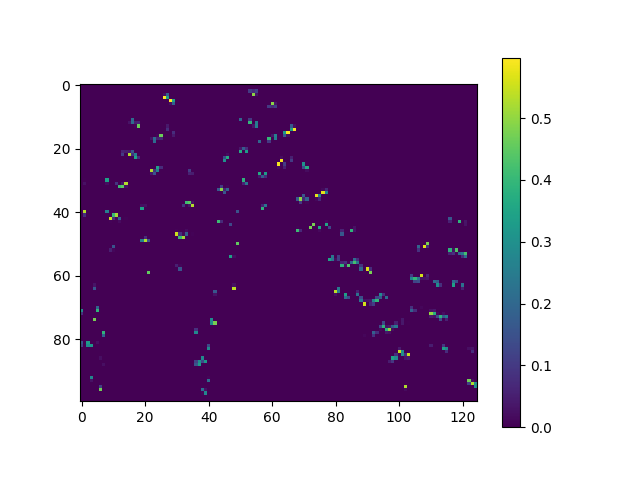
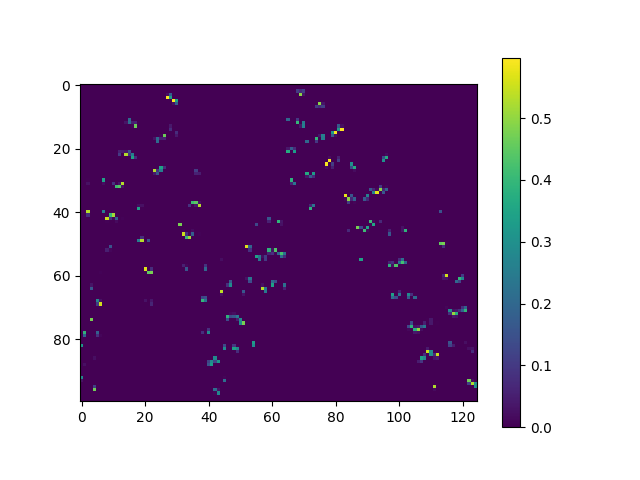
deploy: ea5e95e3e996b7af426904b41d4ed07ebbda2b2d

diff --git a/searchindex.js b/searchindex.js
@@ -1,1 +1,1 @@
-Search.setIndex({"docnames": ["api", "examples/index", "examples/sg_execution_times", "examples/spatial_indexing", "index"], "filenames": ["api.rst", "examples/index.rst", "examples/sg_execution_times.rst", "examples/spatial_indexing.rst", "index.rst"], "titles": ["CellTree2d", "Examples", "Computation times", "Spatial indexing", "Numba Celltree"], "terms": {"class": 0, "numba_celltre": [0, 1, 3, 4], "vertic": [0, 3, 4], "ndarrai": 0, "face": [0, 3, 4], "fill_valu": 0, "int": 0, "n_bucket": 0, "4": [0, 3, 4], "cells_per_leaf": 0, "2": [0, 3, 4], "sourc": [0, 1, 3], "base": 0, "object": [0, 3], "construct": [0, 3], "cell": [0, 4], "tree": [0, 3, 4], "from": [0, 3, 4], "2d": 0, "index": [0, 1, 2], "arrai": [0, 3, 4], "paramet": 0, "float": 0, "shape": [0, 3], "n_point": 0, "corner": 0, "coordin": [0, 3], "x": [0, 3], "y": [0, 3], "integ": 0, "n_face": 0, "n_max_vert": 0, "identifi": 0, "everi": [0, 1, 3], "indic": 0, "its": 0, "node": [0, 3], "If": [0, 3], "ha": 0, "less": 0, "than": 0, "last": 0, "should": [0, 3], "equal": [0, 3], "option": 0, "default": 0, "The": [0, 1, 3], "number": [0, 3], "bucket": 0, "us": [0, 3], "must": 0, "higher": 0, "valu": [0, 3], "over": 0, "8": [0, 3], "provid": [0, 3, 4], "diminish": 0, "return": [0, 3], "leaf": 0, "can": [0, 1, 3], "set": 0, "onli": [0, 3], "1": [0, 3, 4], "thi": [0, 1, 3], "doubl": 0, "memori": 0, "footprint": 0, "slightli": 0, "faster": 0, "lookup": 0, "increas": 0, "reduc": 0, "usag": 0, "cost": 0, "perform": 0, "fill": 0, "mark": 0, "empti": 0, "compute_barycentric_weight": 0, "point": [0, 4], "tupl": 0, "comput": [0, 3], "barycentr": 0, "weight": [0, 3], "locat": 0, "insid": [0, 3], "grid": 0, "tree_face_indic": 0, "For": 0, "fall": [0, 3], "ani": [0, 3], "ar": [0, 3], "barycentric_weight": 0, "which": [0, 3], "i": [0, 3, 4], "all": [0, 1, 3], "0": [0, 2, 3, 4], "intersect_box": [0, 3], "bbox_coord": 0, "find": [0, 3, 4], "box": [0, 4], "intersect": [0, 3, 4], "area": [0, 3, 4], "n_box": 0, "row": [0, 3], "contain": [0, 3], "xmin": [0, 3], "xmax": [0, 3], "ymin": [0, 3], "ymax": [0, 3], "bbox_indic": 0, "n_found": 0, "bound": 0, "between": [0, 3], "two": [0, 3, 4], "intersect_edg": [0, 3, 4], "edge_coord": [0, 3, 4], "an": [0, 3, 4], "edg": [0, 3], "n_edg": 0, "x0": 0, "y0": 0, "x1": 0, "y1": 0, "edge_indic": 0, "length": [0, 3], "intersect_fac": [0, 3, 4], "anoth": [0, 3], "frace_indic": 0, "locate_box": [0, 3], "locate_point": [0, 3], "type": 0, "galleri": [1, 3], "demonstr": 1, "function": 1, "packag": [1, 3], "download": [1, 3], "either": 1, "python": [1, 3], "script": [1, 3], "jupyt": [1, 3], "notebook": [1, 3], "interact": 1, "explor": 1, "spatial": [1, 2], "code": [1, 3], "examples_python": 1, "zip": 1, "examples_jupyt": 1, "gener": [1, 3], "sphinx": [1, 3], "00": 2, "01": 2, "098": [2, 3], "total": [2, 3], "execut": 2, "exampl": [2, 3], "file": 2, "spatial_index": [2, 3], "py": [2, 3], "mb": 2, "click": 3, "here": 3, "full": 3, "goal": 3, "quickli": 3, "unstructur": [3, 4], "mesh": [3, 4], "challeng": 3, "regard": 3, "given": 3, "we": 3, "cannot": 3, "simpli": 3, "column": 3, "would": 3, "structur": 3, "data": 3, "raster": 3, "most": 3, "straightforward": 3, "procedur": 3, "check": 3, "singl": 3, "until": 3, "re": 3, "look": 3, "clearli": 3, "effici": 3, "A": 3, "volum": 3, "hierarchi": 3, "bvh": 3, "mai": 3, "search": [3, 4], "without": 3, "exhaust": 3, "implement": 3, "four": 3, "wai": [3, 4], "convex": [3, 4], "polygon": [3, 4], "e": 3, "g": 3, "segment": 3, "introduct": 3, "each": 3, "ll": 3, "start": 3, "import": [3, 4], "requir": 3, "matplotlib": 3, "plot": 3, "o": 3, "environ": 3, "numba_disable_jit": 3, "small": 3, "avoid": 3, "jit": 3, "overhead": 3, "pyplot": 3, "plt": 3, "numpi": [3, 4], "np": [3, 4], "collect": 3, "linecollect": 3, "celltree2d": [3, 4], "demo": [3, 4], "let": 3, "": 3, "rectangular": 3, "nx": 3, "ny": 3, "10": [3, 4], "linspac": 3, "meshgrid": 3, "ij": 3, "reshap": 3, "t": 3, "add": 3, "outer": 3, "arang": 3, "determin": 3, "them": 3, "node_x": 3, "node_i": 3, "transpos": 3, "fig": 3, "ax": 3, "subplot": 3, "plot_edg": 3, "color": 3, "black": 3, "build": 3, "first": 3, "some": 3, "5": [3, 4], "6": [3, 4], "24": 3, "46": 3, "These": 3, "mean": 3, "get": 3, "rid": 3, "take": 3, "have": 3, "been": 3, "found": 3, "blue": 3, "draw": 3, "compar": 3, "scatter": 3, "linewidth": 3, "3": [3, 4], "now": 3, "try": 3, "more": 3, "exot": 3, "generate_disk": [3, 4], "There": 3, "certainli": 3, "speak": 3, "new": 3, "same": 3, "befor": 3, "It": 3, "clear": 3, "also": 3, "out": 3, "exactli": 3, "one": 3, "neighbor": 3, "chosen": 3, "arbitrarili": 3, "At": 3, "rate": 3, "alwai": 3, "expect": 3, "answer": 3, "per": 3, "case": 3, "multipl": 3, "n": 3, "yield": 3, "m": 3, "To": 3, "illustr": 3, "box_coord": 3, "box_i": 3, "cell_i": [3, 4], "plot_box": 3, "red": 3, "13": 3, "34": 3, "35": 3, "31": 3, "32": 3, "33": 3, "69": 3, "30": 3, "68": 3, "72": 3, "75": 3, "88": 3, "90": 3, "82": 3, "84": 3, "83": 3, "86": 3, "85": 3, "78": 3, "80": 3, "87": 3, "73": 3, "77": 3, "43": 3, "79": 3, "47": 3, "48": 3, "81": 3, "121": 3, "119": 3, "120": 3, "59": 3, "22": 3, "23": 3, "61": 3, "60": 3, "25": 3, "28": 3, "29": 3, "64": 3, "65": 3, "26": 3, "27": 3, "66": 3, "67": 3, "55": 3, "54": 3, "17": 3, "18": 3, "53": 3, "15": 3, "16": 3, "50": 3, "note": 3, "method": [3, 4], "second": 3, "usual": 3, "respect": 3, "third": 3, "confirm": 3, "visual": 3, "cells_0": 3, "cells_1": 3, "green": 3, "similarli": 3, "other": 3, "overlap": 3, "three": 3, "celtre": 3, "triangle_vertic": [3, 4], "7": [3, 4], "triangl": [3, 4], "tri_x": 3, "tri_i": [3, 4], "ratio": 3, "becaus": 3, "our": 3, "triangular": 3, "repres": 3, "vector": 3, "v": 3, "u": 3, "Then": 3, "half": 3, "absolut": 3, "cross": 3, "product": 3, "intersection_fac": 3, "intersection_vertic": 3, "full_area": 3, "ab": 3, "tripcolor": 3, "colorbar": 3, "come": 3, "handi": 3, "dx": 3, "dy": 3, "coord": 3, "column_stack": 3, "ravel": 3, "raster_i": 3, "raster_overlap": 3, "matrix": 3, "store": 3, "weight_matrix": 3, "zero": 3, "len": 3, "imshow": 3, "_": 3, "translat": 3, "mock": 3, "elev": 3, "vallei": 3, "def": 3, "saddle_elev": 3, "sin": 3, "centroid_x": 3, "centroid_i": 3, "axi": 3, "face_z": 3, "weighted_elev": 3, "dot": 3, "area_sum": 3, "ones": 3, "mean_elev": 3, "nan": 3, "figur": 3, "figsiz": 3, "ax0": 3, "add_subplot": 3, "project": 3, "3d": 3, "plot_trisurf": 3, "cmap": 3, "viridi": 3, "ax1": 3, "extent": 3, "white": 3, "Such": 3, "doesn": 3, "appli": 3, "just": 3, "map": 3, "howev": 3, "aggreg": 3, "abov": 3, "veri": 3, "entri": 3, "much": 3, "process": 3, "spars": 3, "see": 3, "scipi": 3, "intersect_": 3, "form": 3, "list": 3, "coo": 3, "easili": 3, "panda": 3, "groupbi": 3, "oper": 3, "As": 3, "final": 3, "onc": 3, "again": 3, "edge_i": [3, 4], "56": 3, "71": 3, "112": 3, "117": 3, "111": 3, "110": 3, "96": 3, "37": 3, "36": 3, "97": 3, "94": 3, "44": 3, "wrap": 3, "up": 3, "euclidian": 3, "norm": 3, "pythagorean": 3, "distanc": 3, "linalg": 3, "add_collect": 3, "run": 3, "time": 3, "minut": 3, "ipynb": 3, "your": 4, "around": 4, "difficult": 4, "line": 4, "dimension": 4, "pip": 4}, "objects": {"": [[0, 0, 0, "-", "numba_celltree"]], "numba_celltree": [[0, 1, 1, "", "CellTree2d"]], "numba_celltree.CellTree2d": [[0, 2, 1, "", "compute_barycentric_weights"], [0, 2, 1, "", "intersect_boxes"], [0, 2, 1, "", "intersect_edges"], [0, 2, 1, "", "intersect_faces"], [0, 2, 1, "", "locate_boxes"], [0, 2, 1, "", "locate_points"]]}, "objtypes": {"0": "py:module", "1": "py:class", "2": "py:method"}, "objnames": {"0": ["py", "module", "Python module"], "1": ["py", "class", "Python class"], "2": ["py", "method", "Python method"]}, "titleterms": {"celltree2d": 0, "exampl": 1, "comput": 2, "time": 2, "spatial": 3, "index": 3, "locat": 3, "point": 3, "bound": 3, "box": 3, "cell": 3, "line": 3, "numba": 4, "celltre": 4, "instal": 4}, "envversion": {"sphinx.domains.c": 2, "sphinx.domains.changeset": 1, "sphinx.domains.citation": 1, "sphinx.domains.cpp": 8, "sphinx.domains.index": 1, "sphinx.domains.javascript": 2, "sphinx.domains.math": 2, "sphinx.domains.python": 3, "sphinx.domains.rst": 2, "sphinx.domains.std": 2, "sphinx.ext.viewcode": 1, "sphinx.ext.todo": 2, "sphinx": 57}, "alltitles": {"CellTree2d": [[0, "module-numba_celltree"]], "Examples": [[1, "examples"]], "Computation times": [[2, "computation-times"]], "Spatial indexing": [[3, "spatial-indexing"]], "Locating points": [[3, "locating-points"]], "Locating bounding boxes": [[3, "locating-bounding-boxes"]], "Locating cells": [[3, "locating-cells"]], "Locating lines": [[3, "locating-lines"]], "Numba Celltree": [[4, "numba-celltree"]], "Installation": [[4, "installation"]]}, "indexentries": {"celltree2d (class in numba_celltree)": [[0, "numba_celltree.CellTree2d"]], "compute_barycentric_weights() (numba_celltree.celltree2d method)": [[0, "numba_celltree.CellTree2d.compute_barycentric_weights"]], "intersect_boxes() (numba_celltree.celltree2d method)": [[0, "numba_celltree.CellTree2d.intersect_boxes"]], "intersect_edges() (numba_celltree.celltree2d method)": [[0, "numba_celltree.CellTree2d.intersect_edges"]], "intersect_faces() (numba_celltree.celltree2d method)": [[0, "numba_celltree.CellTree2d.intersect_faces"]], "locate_boxes() (numba_celltree.celltree2d method)": [[0, "numba_celltree.CellTree2d.locate_boxes"]], "locate_points() (numba_celltree.celltree2d method)": [[0, "numba_celltree.CellTree2d.locate_points"]], "module": [[0, "module-numba_celltree"]], "numba_celltree": [[0, "module-numba_celltree"]]}})
+Search.setIndex({"docnames": ["api", "examples/index", "examples/sg_execution_times", "examples/spatial_indexing", "index"], "filenames": ["api.rst", "examples/index.rst", "examples/sg_execution_times.rst", "examples/spatial_indexing.rst", "index.rst"], "titles": ["CellTree2d", "Examples", "Computation times", "Spatial indexing", "Numba Celltree"], "terms": {"class": 0, "numba_celltre": [0, 1, 3, 4], "vertic": [0, 3, 4], "ndarrai": 0, "face": [0, 3, 4], "fill_valu": 0, "int": 0, "n_bucket": 0, "4": [0, 3, 4], "cells_per_leaf": 0, "2": [0, 3, 4], "sourc": [0, 1, 3], "base": 0, "object": [0, 3], "construct": [0, 3], "cell": [0, 4], "tree": [0, 3, 4], "from": [0, 3, 4], "2d": 0, "index": [0, 1, 2], "arrai": [0, 3, 4], "paramet": 0, "float": 0, "shape": [0, 3], "n_point": 0, "corner": 0, "coordin": [0, 3], "x": [0, 3], "y": [0, 3], "integ": 0, "n_face": 0, "n_max_vert": 0, "identifi": 0, "everi": [0, 1, 3], "indic": 0, "its": 0, "node": [0, 3], "If": [0, 3], "ha": 0, "less": 0, "than": 0, "last": 0, "should": [0, 3], "equal": [0, 3], "option": 0, "default": 0, "The": [0, 1, 3], "number": [0, 3], "bucket": 0, "us": [0, 3], "must": 0, "higher": 0, "valu": [0, 3], "over": 0, "8": [0, 3], "provid": [0, 3, 4], "diminish": 0, "return": [0, 3], "leaf": 0, "can": [0, 1, 3], "set": 0, "onli": [0, 3], "1": [0, 3, 4], "thi": [0, 1, 3], "doubl": 0, "memori": 0, "footprint": 0, "slightli": 0, "faster": 0, "lookup": 0, "increas": 0, "reduc": 0, "usag": 0, "cost": 0, "perform": 0, "fill": 0, "mark": 0, "empti": 0, "compute_barycentric_weight": 0, "point": [0, 4], "tupl": 0, "comput": [0, 3], "barycentr": 0, "weight": [0, 3], "locat": 0, "insid": [0, 3], "grid": 0, "tree_face_indic": 0, "For": 0, "fall": [0, 3], "ani": [0, 3], "ar": [0, 3], "barycentric_weight": 0, "which": [0, 3], "i": [0, 3, 4], "all": [0, 1, 3], "0": [0, 2, 3, 4], "intersect_box": [0, 3], "bbox_coord": 0, "find": [0, 3, 4], "box": [0, 4], "intersect": [0, 3, 4], "area": [0, 3, 4], "n_box": 0, "row": [0, 3], "contain": [0, 3], "xmin": [0, 3], "xmax": [0, 3], "ymin": [0, 3], "ymax": [0, 3], "bbox_indic": 0, "n_found": 0, "bound": 0, "between": [0, 3], "two": [0, 3, 4], "intersect_edg": [0, 3, 4], "edge_coord": [0, 3, 4], "an": [0, 3, 4], "edg": [0, 3], "n_edg": 0, "x0": 0, "y0": 0, "x1": 0, "y1": 0, "edge_indic": 0, "length": [0, 3], "intersect_fac": [0, 3, 4], "anoth": [0, 3], "frace_indic": 0, "locate_box": [0, 3], "locate_point": [0, 3], "type": 0, "galleri": [1, 3], "demonstr": 1, "function": 1, "packag": [1, 3], "download": [1, 3], "either": 1, "python": [1, 3], "script": [1, 3], "jupyt": [1, 3], "notebook": [1, 3], "interact": 1, "explor": 1, "spatial": [1, 2], "code": [1, 3], "examples_python": 1, "zip": 1, "examples_jupyt": 1, "gener": [1, 3], "sphinx": [1, 3], "00": 2, "01": 2, "578": [2, 3], "total": [2, 3], "execut": 2, "exampl": [2, 3], "file": 2, "spatial_index": [2, 3], "py": [2, 3], "mb": 2, "click": 3, "here": 3, "full": 3, "goal": 3, "quickli": 3, "unstructur": [3, 4], "mesh": [3, 4], "challeng": 3, "regard": 3, "given": 3, "we": 3, "cannot": 3, "simpli": 3, "column": 3, "would": 3, "structur": 3, "data": 3, "raster": 3, "most": 3, "straightforward": 3, "procedur": 3, "check": 3, "singl": 3, "until": 3, "re": 3, "look": 3, "clearli": 3, "effici": 3, "A": 3, "volum": 3, "hierarchi": 3, "bvh": 3, "mai": 3, "search": [3, 4], "without": 3, "exhaust": 3, "implement": 3, "four": 3, "wai": [3, 4], "convex": [3, 4], "polygon": [3, 4], "e": 3, "g": 3, "segment": 3, "introduct": 3, "each": 3, "ll": 3, "start": 3, "import": [3, 4], "requir": 3, "matplotlib": 3, "plot": 3, "o": 3, "environ": 3, "numba_disable_jit": 3, "small": 3, "avoid": 3, "jit": 3, "overhead": 3, "pyplot": 3, "plt": 3, "numpi": [3, 4], "np": [3, 4], "collect": 3, "linecollect": 3, "celltree2d": [3, 4], "demo": [3, 4], "let": 3, "": 3, "rectangular": 3, "nx": 3, "ny": 3, "10": [3, 4], "linspac": 3, "meshgrid": 3, "ij": 3, "reshap": 3, "t": 3, "add": 3, "outer": 3, "arang": 3, "determin": 3, "them": 3, "node_x": 3, "node_i": 3, "transpos": 3, "fig": 3, "ax": 3, "subplot": 3, "plot_edg": 3, "color": 3, "black": 3, "build": 3, "first": 3, "some": 3, "5": [3, 4], "6": [3, 4], "24": 3, "46": 3, "These": 3, "mean": 3, "get": 3, "rid": 3, "take": 3, "have": 3, "been": 3, "found": 3, "blue": 3, "draw": 3, "compar": 3, "scatter": 3, "linewidth": 3, "3": [3, 4], "now": 3, "try": 3, "more": 3, "exot": 3, "generate_disk": [3, 4], "There": 3, "certainli": 3, "speak": 3, "new": 3, "same": 3, "befor": 3, "It": 3, "clear": 3, "also": 3, "out": 3, "exactli": 3, "one": 3, "neighbor": 3, "chosen": 3, "arbitrarili": 3, "At": 3, "rate": 3, "alwai": 3, "expect": 3, "answer": 3, "per": 3, "case": 3, "multipl": 3, "n": 3, "yield": 3, "m": 3, "To": 3, "illustr": 3, "box_coord": 3, "box_i": 3, "cell_i": [3, 4], "plot_box": 3, "red": 3, "13": 3, "36": 3, "37": 3, "33": 3, "34": 3, "35": 3, "84": 3, "32": 3, "89": 3, "87": 3, "90": 3, "39": 3, "20": 3, "97": 3, "99": 3, "98": 3, "101": 3, "102": 3, "88": 3, "44": 3, "100": 3, "31": 3, "92": 3, "91": 3, "56": 3, "55": 3, "57": 3, "58": 3, "63": 3, "62": 3, "64": 3, "74": 3, "23": 3, "76": 3, "75": 3, "25": 3, "26": 3, "29": 3, "30": 3, "79": 3, "80": 3, "27": 3, "28": 3, "81": 3, "82": 3, "70": 3, "69": 3, "16": 3, "17": 3, "68": 3, "14": 3, "15": 3, "65": 3, "note": 3, "method": [3, 4], "second": 3, "usual": 3, "respect": 3, "third": 3, "confirm": 3, "visual": 3, "cells_0": 3, "cells_1": 3, "green": 3, "similarli": 3, "other": 3, "overlap": 3, "three": 3, "celtre": 3, "triangle_vertic": [3, 4], "7": [3, 4], "triangl": [3, 4], "tri_x": 3, "tri_i": [3, 4], "ratio": 3, "becaus": 3, "our": 3, "triangular": 3, "repres": 3, "vector": 3, "v": 3, "u": 3, "Then": 3, "half": 3, "absolut": 3, "cross": 3, "product": 3, "intersection_fac": 3, "intersection_vertic": 3, "full_area": 3, "ab": 3, "tripcolor": 3, "colorbar": 3, "come": 3, "handi": 3, "dx": 3, "dy": 3, "coord": 3, "column_stack": 3, "ravel": 3, "raster_i": 3, "raster_overlap": 3, "matrix": 3, "store": 3, "weight_matrix": 3, "zero": 3, "len": 3, "imshow": 3, "_": 3, "translat": 3, "mock": 3, "elev": 3, "vallei": 3, "def": 3, "saddle_elev": 3, "sin": 3, "centroid_x": 3, "centroid_i": 3, "axi": 3, "face_z": 3, "weighted_elev": 3, "dot": 3, "area_sum": 3, "ones": 3, "mean_elev": 3, "nan": 3, "figur": 3, "figsiz": 3, "ax0": 3, "add_subplot": 3, "project": 3, "3d": 3, "plot_trisurf": 3, "cmap": 3, "viridi": 3, "ax1": 3, "extent": 3, "white": 3, "Such": 3, "doesn": 3, "appli": 3, "just": 3, "map": 3, "howev": 3, "aggreg": 3, "abov": 3, "veri": 3, "entri": 3, "much": 3, "process": 3, "spars": 3, "see": 3, "scipi": 3, "intersect_": 3, "form": 3, "list": 3, "coo": 3, "easili": 3, "panda": 3, "groupbi": 3, "oper": 3, "As": 3, "final": 3, "onc": 3, "again": 3, "edge_i": [3, 4], "71": 3, "86": 3, "47": 3, "60": 3, "118": 3, "116": 3, "117": 3, "54": 3, "105": 3, "41": 3, "40": 3, "106": 3, "103": 3, "94": 3, "96": 3, "wrap": 3, "up": 3, "euclidian": 3, "norm": 3, "pythagorean": 3, "distanc": 3, "linalg": 3, "add_collect": 3, "run": 3, "time": 3, "minut": 3, "ipynb": 3, "your": 4, "around": 4, "difficult": 4, "line": 4, "dimension": 4, "pip": 4}, "objects": {"": [[0, 0, 0, "-", "numba_celltree"]], "numba_celltree": [[0, 1, 1, "", "CellTree2d"]], "numba_celltree.CellTree2d": [[0, 2, 1, "", "compute_barycentric_weights"], [0, 2, 1, "", "intersect_boxes"], [0, 2, 1, "", "intersect_edges"], [0, 2, 1, "", "intersect_faces"], [0, 2, 1, "", "locate_boxes"], [0, 2, 1, "", "locate_points"]]}, "objtypes": {"0": "py:module", "1": "py:class", "2": "py:method"}, "objnames": {"0": ["py", "module", "Python module"], "1": ["py", "class", "Python class"], "2": ["py", "method", "Python method"]}, "titleterms": {"celltree2d": 0, "exampl": 1, "comput": 2, "time": 2, "spatial": 3, "index": 3, "locat": 3, "point": 3, "bound": 3, "box": 3, "cell": 3, "line": 3, "numba": 4, "celltre": 4, "instal": 4}, "envversion": {"sphinx.domains.c": 2, "sphinx.domains.changeset": 1, "sphinx.domains.citation": 1, "sphinx.domains.cpp": 8, "sphinx.domains.index": 1, "sphinx.domains.javascript": 2, "sphinx.domains.math": 2, "sphinx.domains.python": 3, "sphinx.domains.rst": 2, "sphinx.domains.std": 2, "sphinx.ext.viewcode": 1, "sphinx.ext.todo": 2, "sphinx": 57}, "alltitles": {"CellTree2d": [[0, "module-numba_celltree"]], "Examples": [[1, "examples"]], "Computation times": [[2, "computation-times"]], "Spatial indexing": [[3, "spatial-indexing"]], "Locating points": [[3, "locating-points"]], "Locating bounding boxes": [[3, "locating-bounding-boxes"]], "Locating cells": [[3, "locating-cells"]], "Locating lines": [[3, "locating-lines"]], "Numba Celltree": [[4, "numba-celltree"]], "Installation": [[4, "installation"]]}, "indexentries": {"celltree2d (class in numba_celltree)": [[0, "numba_celltree.CellTree2d"]], "compute_barycentric_weights() (numba_celltree.celltree2d method)": [[0, "numba_celltree.CellTree2d.compute_barycentric_weights"]], "intersect_boxes() (numba_celltree.celltree2d method)": [[0, "numba_celltree.CellTree2d.intersect_boxes"]], "intersect_edges() (numba_celltree.celltree2d method)": [[0, "numba_celltree.CellTree2d.intersect_edges"]], "intersect_faces() (numba_celltree.celltree2d method)": [[0, "numba_celltree.CellTree2d.intersect_faces"]], "locate_boxes() (numba_celltree.celltree2d method)": [[0, "numba_celltree.CellTree2d.locate_boxes"]], "locate_points() (numba_celltree.celltree2d method)": [[0, "numba_celltree.CellTree2d.locate_points"]], "module": [[0, "module-numba_celltree"]], "numba_celltree": [[0, "module-numba_celltree"]]}})

diff --git a/examples/spatial_indexing.html b/examples/spatial_indexing.html
@@ -456,11 +456,11 @@ a box.</p>
 </div>
 <div class="sphx-glr-script-out highlight-none notranslate"><div class="highlight"><pre><span></span>(array([0, 0, 0, 0, 0, 0, 0, 0, 0, 0, 0, 0, 0, 0, 0, 0, 0, 0, 0, 0, 0, 0,
        0, 0, 0, 0, 0, 0, 0, 0, 1, 1, 1, 1, 1, 1, 1, 1, 1, 1, 1, 1, 1, 1,
-       1, 1, 1, 1, 1, 1, 1, 1, 1]), array([ 34,  35,  31,  32,  33,  69,  30,  68,  72,  75,  88,  90,  82,
-        84,  83,  86,  85,  78,  80,  87,  73,  77,  43,  79,  47,  48,
-        81, 121, 119, 120,  59,  22,  23,  61,  60,  24,  25,  28,  29,
-        64,  65,  26,  27,  66,  67,  55,  54,  17,  18,  53,  15,  16,
-        50]))
+       1, 1, 1, 1, 1, 1, 1, 1, 1]), array([ 36,  37,  33,  34,  35,  84,  32,  89,  87,  90,  39,  20,  97,
+        99,  98, 101, 102,  88,  44, 100,  31,  92,  91,  56,  55,  57,
+        58,  63,  62,  64,  74,  23,  24,  76,  75,  25,  26,  29,  30,
+        79,  80,  27,  28,  81,  82,  70,  69,  16,  17,  68,  14,  15,
+        65]))
 </pre></div>
 </div>
 <p>Note that this method returns two arrays of equal length. The second array
@@ -644,9 +644,9 @@ This once again returns three arrays of equal length:</p>
 </pre></div>
 </div>
 <div class="sphx-glr-script-out highlight-none notranslate"><div class="highlight"><pre><span></span>(array([0, 0, 0, 0, 0, 0, 0, 0, 0, 0, 0, 0, 0, 0, 0, 0, 0, 0, 1, 1, 1, 1,
-       1, 1, 1, 1, 1, 1, 1, 1, 1, 1, 1, 1, 1, 1]), array([ 56,  22,  23,  24,  69,  71,  68,  72,  75,  47, 121, 120, 112,
-       117, 111,   0, 110,   2,  96,  37,  36,  97,  94,  83,  86,  78,
-        87,  17,  73,  77,  44,  46,  43,  15,  16,  50]))
+       1, 1, 1, 1, 1, 1, 1, 1, 1, 1, 1, 1, 1, 1]), array([ 71,  23,  24,  25,  84,  86,  89,  87,  90,  55,  63,  64,  47,
+        60, 118, 116, 117,  54, 105,  41,  40, 106, 103,  98, 101,  88,
+       100,  16,  31,  92,  94,  96,  91,  14,  15,  65]))
 </pre></div>
 </div>
 <p>To wrap up, we’ll color the intersect faces with the length of the
@@ -666,7 +666,7 @@ with the Euclidian norm (Pythagorean distance):</p>
 <span class="n">demo</span><span class="o">.</span><span class="n">plot_edges</span><span class="p">(</span><span class="n">node_x</span><span class="p">,</span> <span class="n">node_y</span><span class="p">,</span> <span class="n">edges</span><span class="p">,</span> <span class="n">ax</span><span class="p">,</span> <span class="n">color</span><span class="o">=</span><span class="s2">&quot;black&quot;</span><span class="p">)</span>
 </pre></div>
 </div>
-<img src="../_images/sphx_glr_spatial_indexing_011.png" srcset="../_images/sphx_glr_spatial_indexing_011.png" alt="spatial indexing" class = "sphx-glr-single-img"/><p class="sphx-glr-timing"><strong>Total running time of the script:</strong> ( 0 minutes  1.098 seconds)</p>
+<img src="../_images/sphx_glr_spatial_indexing_011.png" srcset="../_images/sphx_glr_spatial_indexing_011.png" alt="spatial indexing" class = "sphx-glr-single-img"/><p class="sphx-glr-timing"><strong>Total running time of the script:</strong> ( 0 minutes  1.578 seconds)</p>
 <div class="sphx-glr-footer sphx-glr-footer-example docutils container" id="sphx-glr-download-examples-spatial-indexing-py">
 <div class="sphx-glr-download sphx-glr-download-python docutils container">
 <p><a class="reference download internal" download="" href="../_downloads/f989545cc7034bd6c0c40e2091705820/spatial_indexing.py"><code class="xref download docutils literal notranslate"><span class="pre">Download</span> <span class="pre">Python</span> <span class="pre">source</span> <span class="pre">code:</span> <span class="pre">spatial_indexing.py</span></code></a></p>

diff --git a/examples/sg_execution_times.html b/examples/sg_execution_times.html
@@ -293,11 +293,11 @@
               
   <section id="computation-times">
 <span id="sphx-glr-examples-sg-execution-times"></span><h1>Computation times<a class="headerlink" href="#computation-times" title="Permalink to this heading">#</a></h1>
-<p><strong>00:01.098</strong> total execution time for <strong>examples</strong> files:</p>
+<p><strong>00:01.578</strong> total execution time for <strong>examples</strong> files:</p>
 <table class="table">
 <tbody>
 <tr class="row-odd"><td><p><a class="reference internal" href="spatial_indexing.html#sphx-glr-examples-spatial-indexing-py"><span class="std std-ref">Spatial indexing</span></a> (<code class="docutils literal notranslate"><span class="pre">spatial_indexing.py</span></code>)</p></td>
-<td><p>00:01.098</p></td>
+<td><p>00:01.578</p></td>
 <td><p>0.0 MB</p></td>
 </tr>
 </tbody>
